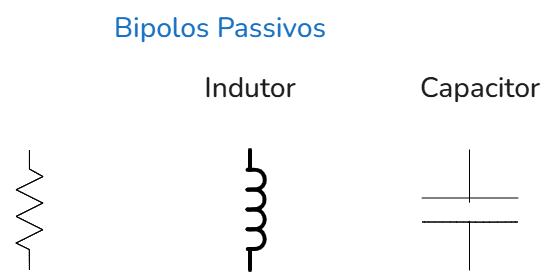
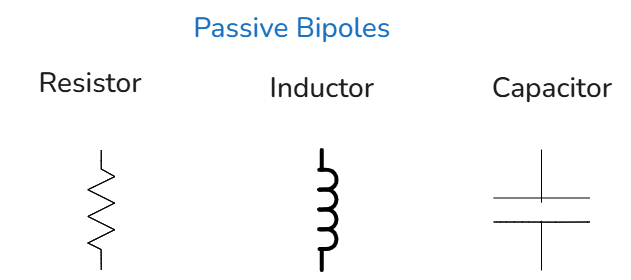
fix(02_basic_concepts): correct the path of passive bipoles

diff --git a/assets/excalidraw/passive-bipoles.md b/assets/excalidraw/passive-bipoles.md
@@ -10,11 +10,13 @@ tags: [excalidraw]
 # Excalidraw Data
 
 ## Text Elements
-Bipolos Passivos ^Zw4PUvi0
+Passive Bipoles ^Zw4PUvi0
 
-Indutor ^OJ497ShS
+Inductor ^OJ497ShS
 
 Capacitor ^rO0aNXkE
+
+Resistor ^mamxx2Hp
 
 %%
 ## Drawing
@@ -23,170 +25,76 @@ N4KAkARALgngDgUwgLgAQQQDwMYEMA2AlgCYBOuA7hADTgQBuCpAzoQPYB2KqATLZMzYBXUtiRoIACyh
 
[1 lines of base64/hex data omitted]
 
[2 lines of base64/hex data omitted]
 
[2 lines of base64/hex data omitted]
 
[2 lines of base64/hex data omitted]
 
[2 lines of base64/hex data omitted]
 
[2 lines of base64/hex data omitted]
 
[2 lines of base64/hex data omitted]
 
[2 lines of base64/hex data omitted]
 
[2 lines of base64/hex data omitted]
 
[2 lines of base64/hex data omitted]
 
[2 lines of base64/hex data omitted]
 
[2 lines of base64/hex data omitted]
 
[2 lines of base64/hex data omitted]
 
[2 lines of base64/hex data omitted]
 
[2 lines of base64/hex data omitted]
 
[2 lines of base64/hex data omitted]
 
[2 lines of base64/hex data omitted]
 
[2 lines of base64/hex data omitted]
 
[2 lines of base64/hex data omitted]
 
[2 lines of base64/hex data omitted]
 
[2 lines of base64/hex data omitted]
 
[2 lines of base64/hex data omitted]
 
[2 lines of base64/hex data omitted]
 
[2 lines of base64/hex data omitted]
 
[2 lines of base64/hex data omitted]
 
[2 lines of base64/hex data omitted]
 
[2 lines of base64/hex data omitted]
 
[2 lines of base64/hex data omitted]
 
[2 lines of base64/hex data omitted]
 
[2 lines of base64/hex data omitted]
 
[2 lines of base64/hex data omitted]
 
[2 lines of base64/hex data omitted]
 
[2 lines of base64/hex data omitted]
 
[2 lines of base64/hex data omitted]
 
[2 lines of base64/hex data omitted]
 
[2 lines of base64/hex data omitted]
 
[1 lines of base64/hex data omitted]
-
[1 lines of base64/hex data omitted]
-
[1 lines of base64/hex data omitted]
-
[1 lines of base64/hex data omitted]
-
[1 lines of base64/hex data omitted]
-
[1 lines of base64/hex data omitted]
-
[1 lines of base64/hex data omitted]
-
[1 lines of base64/hex data omitted]
-
[1 lines of base64/hex data omitted]
-
[1 lines of base64/hex data omitted]
-
[1 lines of base64/hex data omitted]
-
[1 lines of base64/hex data omitted]
-
[1 lines of base64/hex data omitted]
-
[1 lines of base64/hex data omitted]
-
[1 lines of base64/hex data omitted]
-
[1 lines of base64/hex data omitted]
-
[1 lines of base64/hex data omitted]
-
[1 lines of base64/hex data omitted]
-
[1 lines of base64/hex data omitted]
-
[1 lines of base64/hex data omitted]
-
[1 lines of base64/hex data omitted]
-
[1 lines of base64/hex data omitted]
-
[1 lines of base64/hex data omitted]
-
[1 lines of base64/hex data omitted]
-
[1 lines of base64/hex data omitted]
-
[1 lines of base64/hex data omitted]
-
[1 lines of base64/hex data omitted]
-
[1 lines of base64/hex data omitted]
-
[1 lines of base64/hex data omitted]
-
[1 lines of base64/hex data omitted]
-
[1 lines of base64/hex data omitted]
-
[1 lines of base64/hex data omitted]
-
[1 lines of base64/hex data omitted]
-
[1 lines of base64/hex data omitted]
-
[1 lines of base64/hex data omitted]
-
[1 lines of base64/hex data omitted]
-
[1 lines of base64/hex data omitted]
-
[1 lines of base64/hex data omitted]
-
[1 lines of base64/hex data omitted]
-
[1 lines of base64/hex data omitted]
-
[1 lines of base64/hex data omitted]
-
[1 lines of base64/hex data omitted]
-
[1 lines of base64/hex data omitted]
-
[1 lines of base64/hex data omitted]
-
[1 lines of base64/hex data omitted]
-
[1 lines of base64/hex data omitted]
-
[1 lines of base64/hex data omitted]
-
[2 lines of base64/hex data omitted]
 ```
 %%
